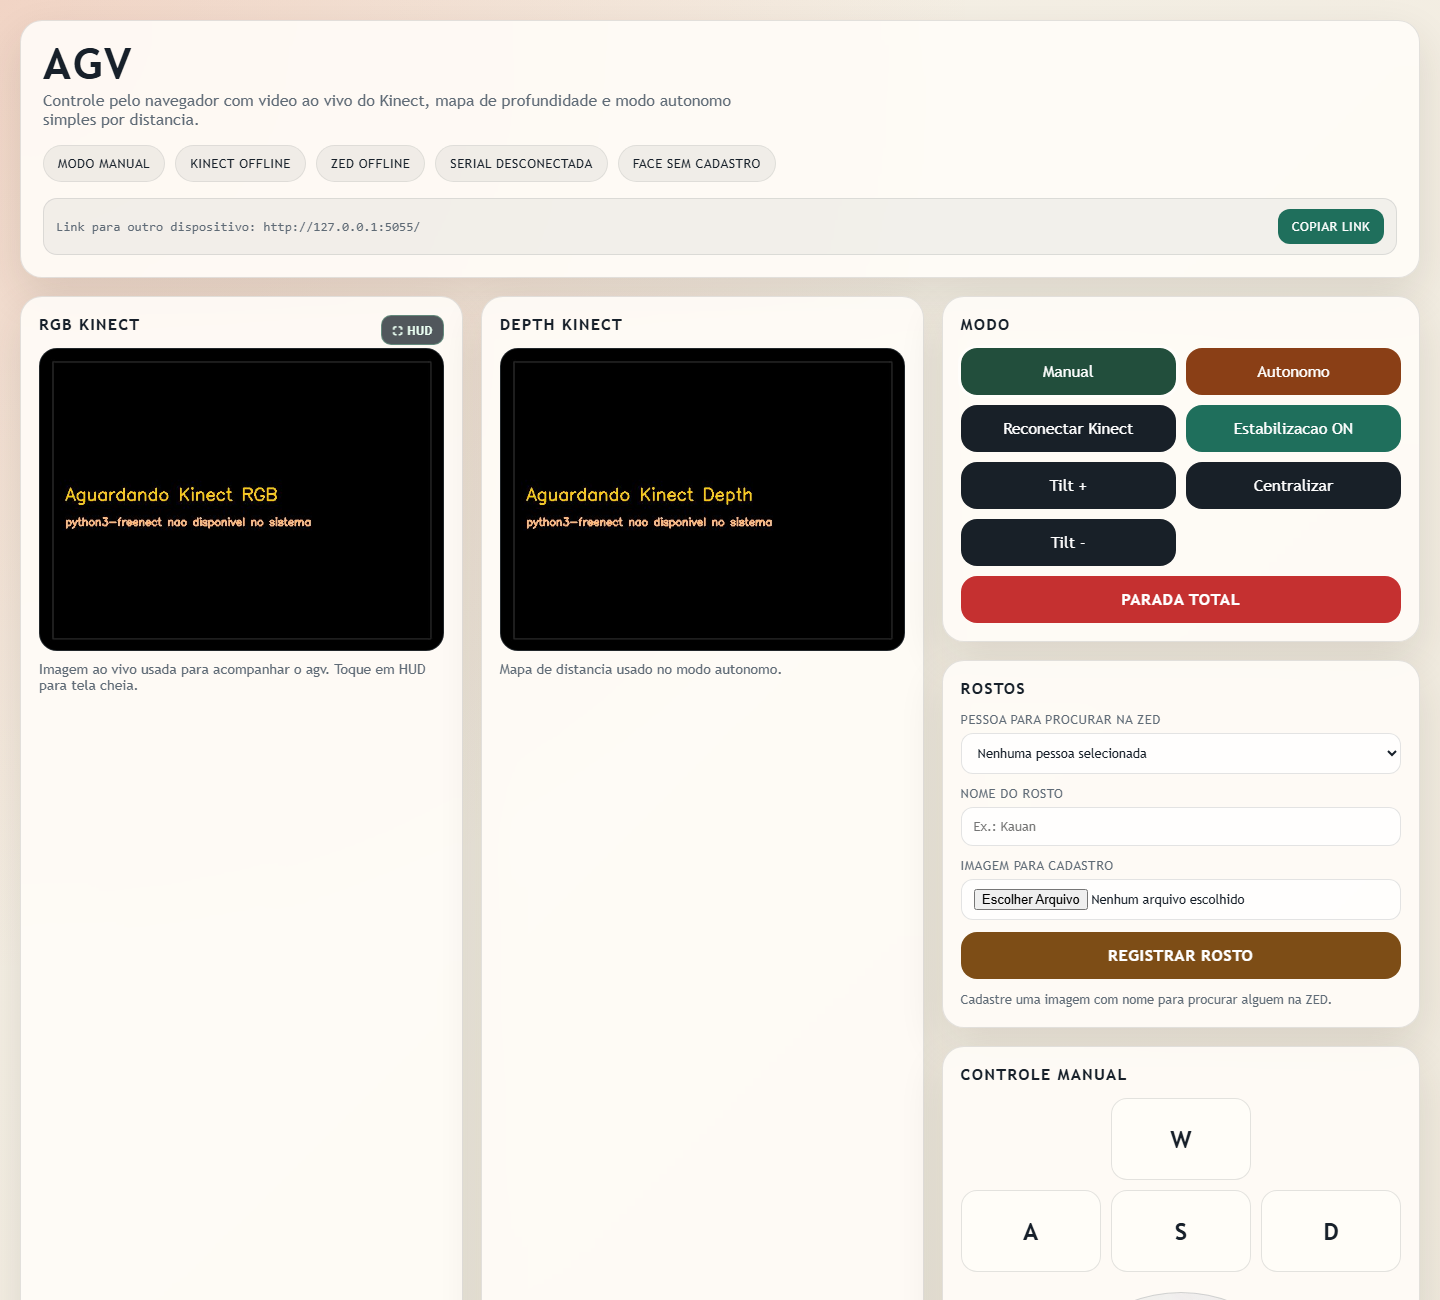
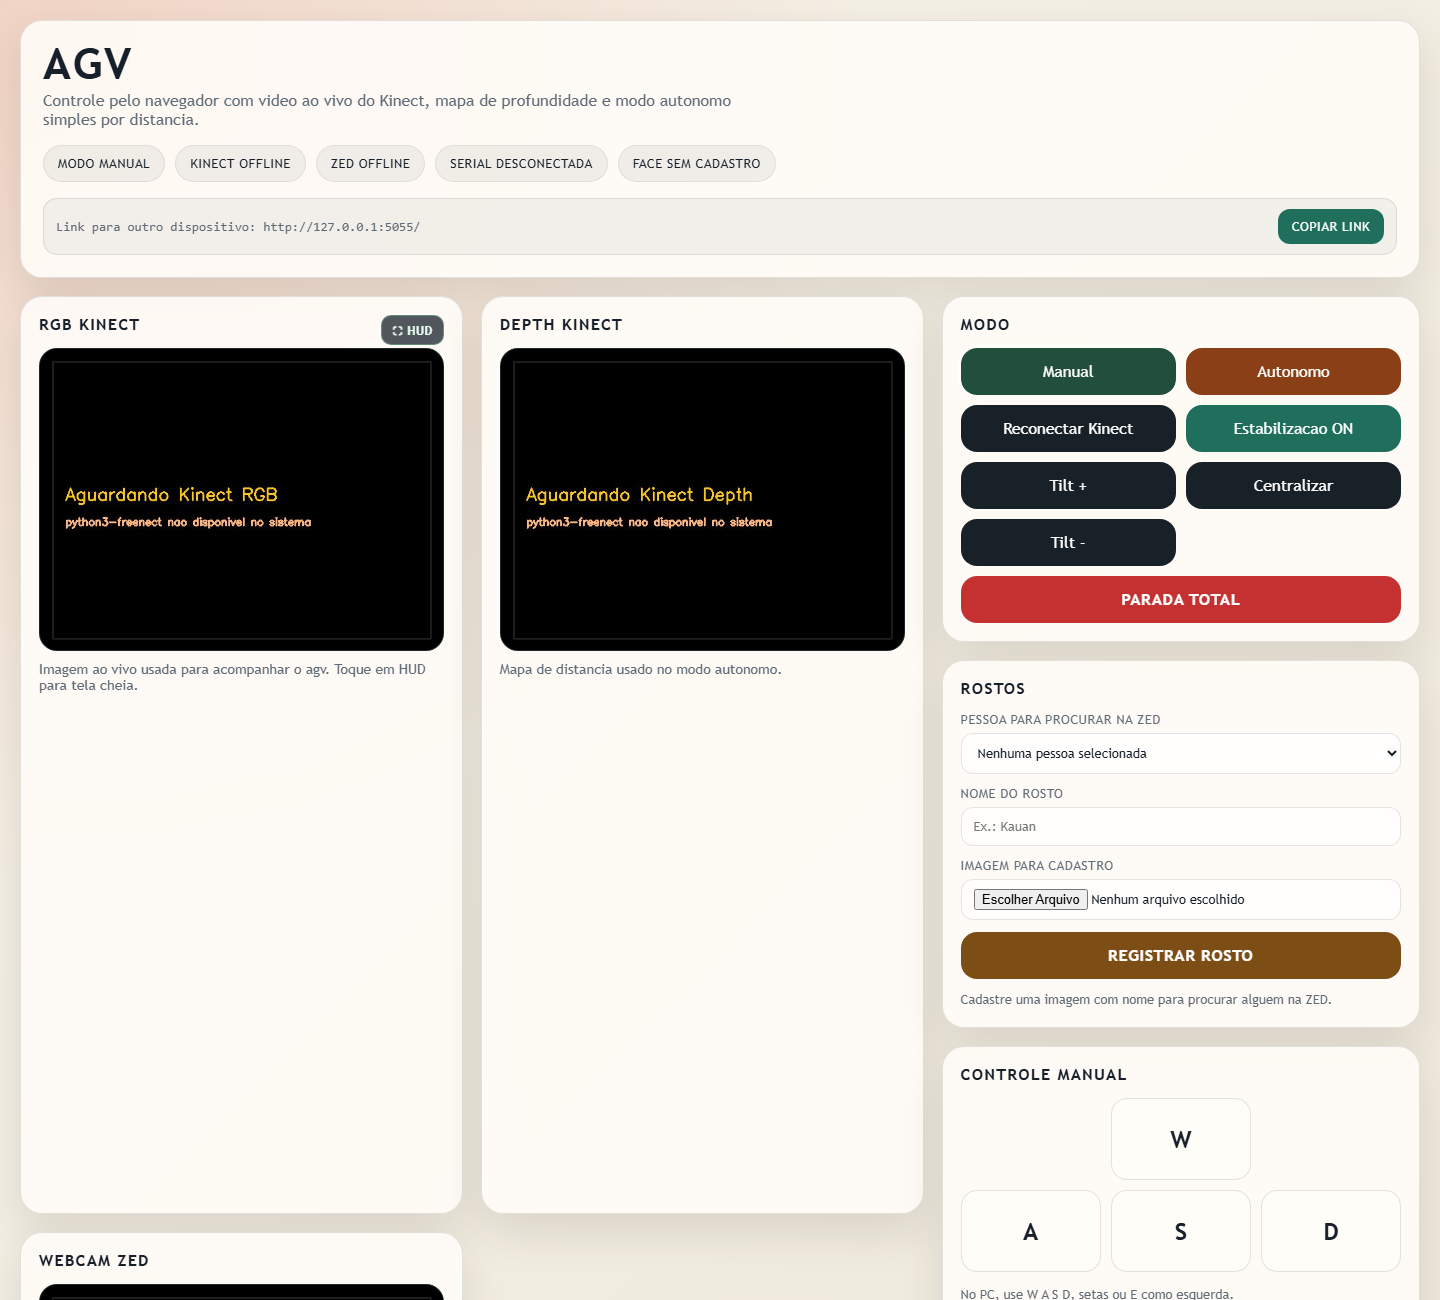
docs: atualiza README para o estado apos limpeza e correcoes
- testes: 19 automatizados, todos passando (inclui distancias e autonomo)
- testes do painel: tecla segurada alem do watchdog e queda do navegador
- limitacoes: remove os bugs corrigidos, registra ruido de pixel isolado
  e a falta de testes automatizados do JavaScript
- problemas 10 (distancia mostrava a parede) e 11 (tecla segurada)
- diagrama de profundidade e passo 11.3 descrevem o ponto mais proximo
- captura do painel refeita: PC mostra so o WASD
- CHANGELOG com corrigido/removido/testes

Changed region(s): [[0.0, 0.9231, 0.6562, 1.0], [0.6562, 0.9846, 0.8438, 1.0]]

diff --git a/README.md b/README.md
@@ -324,7 +324,7 @@ flowchart LR
 
 1. O Kinect entrega um quadro de profundidade 640×480 em 11 bits.
 2. O servidor considera só a faixa entre 35% e 65% da altura e recorta **três janelas**: esquerda (10–30% da largura), centro (40–60%) e direita (70–90%).
-3. Em cada janela descarta leituras inválidas, pega um valor representativo e o converte em metros pela fórmula da comunidade OpenKinect. Só aceita valores entre 0,15 m e 10 m.
+3. Em cada janela descarta leituras inválidas e pega o **ponto mais próximo**. No formato bruto de 11 bits, que é o menor valor, o servidor o converte em metros pela fórmula da comunidade OpenKinect. Só aceita valores entre 0,15 m e 10 m.
 4. A **distância frontal** é a da janela central. Se ela não existir, usa a menor das três.
 5. Esses valores vão para a telemetria, para o HUD e para as regras do modo autônomo.
 
@@ -355,6 +355,7 @@ AGV/
 │   └── iniciar_sistema.py         # servidor Flask + painel web/HUD + threads
 ├── tests/
 │   ├── test_arduino_serial.py     # testes da serial e do protocolo
+│   ├── test_depth_metrics.py      # testes das distâncias e do modo autônomo
 │   └── test_kinect_release.py     # testes de liberação USB e tilt do Kinect
 ├── docs/
 │   ├── diagrams/                  # arquitetura e janelas de profundidade (SVG)
@@ -714,7 +715,7 @@ Painel principal (http://IP_DO_AGV:5000)
 ![Painel principal](docs/images/painel-web.png)
 
 - **Finalidade:** central de teleoperação do AGV.
-- **Elementos:** chips de estado, link para outro dispositivo, vídeos RGB/profundidade/ZED, botões de modo e parada total, cadastro de rostos, WASD e joystick, telemetria e configurações.
+- **Elementos:** chips de estado, link para outro dispositivo, vídeos RGB/profundidade/ZED, botões de modo e parada total, cadastro de rostos, controle manual (WASD no PC, joystick no celular), telemetria e configurações.
 - **Ação do usuário:** escolher o modo, dirigir, acompanhar a telemetria e abrir o HUD.
 
 ### Visualizador HUD em tela cheia
@@ -742,10 +743,16 @@ Executados em 14/10/2026 no Windows 10 com Python 3.11.9, sem hardware.
 | Rota de reconexão do Kinect | `POST /api/kinect/reconnect` | 200 e liberação USB chamada | Conforme esperado | ✅ |
 | Rotas de tilt e estabilização | `POST /api/kinect/tilt`, `GET/POST /api/kinect/stabilization` | Ângulo e estado repassados | Conforme esperado | ✅ |
 | Tilt manual imediato | `_command_kinect_tilt(12)` e `(-12)` | `sync_set_tilt_degs(12)` e `(-12)` | Conforme esperado | ✅ |
-| Ordem de liberação dos módulos | `_release_kinect_usb_claims()` | Lista de comandos `sudo` | Teste espera `uvcvideo`, que hoje só é liberado com `AGV_KINECT_RELEASE_UVCVIDEO=1` | ❌ teste desatualizado |
-| Correção de tilt pelo acelerômetro / tilt manual com estabilização OFF | `_do_tilt_body` com acelerômetro simulado | `set_tilt_degs` chamado | Erro: os testes precisam do `python3-freenect` instalado (indisponível no Windows) | ⚠ só em Linux com freenect |
+| Ordem de liberação dos módulos | `_release_kinect_usb_claims()` com `AGV_KINECT_RELEASE_UVCVIDEO` desligado e ligado | Comandos `sudo` na ordem certa; `uvcvideo` só quando ligado | Conforme esperado | ✅ |
+| Correção de tilt pelo acelerômetro / tilt manual com estabilização OFF | `_do_tilt_body` com `freenect` simulado | `set_tilt_degs` chamado | Conforme esperado | ✅ |
+| Distância = ponto mais próximo | Janela com obstáculo (raw 500 ≈ 0,56 m) na frente de parede (raw 1000 ≈ 3,85 m) | 0,56 m | Conforme esperado | ✅ |
+| Fundo distante não apaga a janela | Obstáculo a 0,67 m com fundo além de 10 m | 0,67 m | Conforme esperado | ✅ |
+| Leituras inválidas | Janela só com raw 2047 | Sem distância (`None`) | Conforme esperado | ✅ |
+| Formato em milímetros | Janela com 800 mm entre 3000 mm | 0,80 m | Conforme esperado | ✅ |
+| Obstáculo só no centro | Quadro 640×480 com obstáculo na janela central | Centro 0,56 m; esquerda e direita 3,85 m | Conforme esperado | ✅ |
+| Autônomo desvia | Mesmo quadro no modo autônomo | `desvio-curto`, velocidade 18%, com giro | Conforme esperado | ✅ |
 
-**Resumo:** 12 testes, 9 aprovados, 1 desatualizado e 2 dependentes do `python3-freenect`.
+**Resumo:** 19 testes, todos aprovados. Os testes simulam a serial e o `freenect`, então rodam em qualquer sistema, sem o hardware.
 
 ### 22.2 Testes do painel sem hardware
 
@@ -755,6 +762,9 @@ Executados em 14/10/2026 no Windows 10 com Python 3.11.9, sem hardware.
 | Kinect ausente | Abrir o painel sem `python3-freenect` | Mensagem clara no vídeo e na telemetria | "Aguardando Kinect RGB — python3-freenect nao disponivel no sistema" | ✅ |
 | ZED ausente | Abrir o painel sem `/dev/video*` | Mensagem no card da ZED | "Aguardando webcam ZED — nao abriu webcam ZED" | ✅ |
 | Serial desativada | `AGV_ARDUINO_ENABLED=0` | Telemetria indica serial desligada | "serial desativada por ambiente" | ✅ |
+| Tecla segurada além do watchdog | Painel real em navegador *headless*: W pressionado sem soltar, `active_speed` lido em 0,5/1,5/2,5/3,5 s | Velocidade mantida enquanto W estiver pressionado | 100, 100, 100, 100 (antes da correção: 100, 100, 0, 0) | ✅ |
+| Navegador cai com W pressionado | Encerrar o navegador com W pressionado | Watchdog zera os motores | `active_speed` = 0 logo após o encerramento | ✅ |
+| Controle certo para cada dispositivo | Abrir o painel no PC e com *user agent* de celular | PC só WASD; celular só joystick | Conforme esperado | ✅ |
 | Abrir o HUD | Clicar em **⛶ HUD** | Vídeo em tela cheia com métricas e PiP | Ver captura na seção 21 | ✅ |
 
 ### 22.3 Testes com o AGV
@@ -787,8 +797,6 @@ Executados em 14/10/2026 no Windows 10 com Python 3.11.9, sem hardware.
 
 - **As sobreposições registradas de obstáculos ainda não existem.** O HUD atual mostra números fixos na tela; contorno, distância ancorada e zona de segurança são o próximo passo (RF20–RF22).
 - **Profundidade e RGB não estão alinhados entre si.** O Kinect v1 tem as duas câmeras deslocadas, e o código ainda não registra uma sobre a outra; isso é pré-requisito para desenhar sobre o obstáculo no vídeo.
-- **Possível erro na escolha do ponto da janela de profundidade.** No formato bruto de 11 bits, `_depth_segment_distance` usa o **maior** valor bruto da janela. Pela fórmula de conversão, valor maior = mais longe. Logo, com um obstáculo próximo na frente de uma parede, a janela tende a informar a distância da parede. Uma janela com algum ponto além de ~10 m é descartada inteira. No formato em milímetros o código usa o menor valor, o comportamento esperado. Precisa ser confirmado com o AGV e corrigido.
-- **Watchdog com tecla segurada (a confirmar no AGV):** o painel só envia um comando manual quando ele **muda**, e o servidor para o AGV se não chegar comando novo em 2 s. Pela leitura do código, segurar a mesma tecla (ou o joystick parado na mesma posição) por mais de 2 s deve fazer o AGV parar até o comando mudar.
 - **Faixa de medição limitada:** só a faixa central (35–65% da altura) é medida. Obstáculos baixos (paletes no chão) ou altos podem não aparecer nas distâncias.
 - **Precisão do Kinect v1 cai com a distância** (Wasenmüller e Stricker, 2016), e ele não mede bem a poucos centímetros nem sob luz solar forte.
 - **Vídeo com baixa taxa de quadros** (6 fps RGB, 4 fps profundidade por padrão) para caber em redes fracas, o que aumenta a latência percebida.
@@ -799,7 +807,8 @@ Executados em 14/10/2026 no Windows 10 com Python 3.11.9, sem hardware.
 - **A imagem Docker não inclui FFmpeg:** dentro do container a ZED só abre pelo OpenCV.
 - **1ª build lenta:** o `face-recognition` compila o dlib do código-fonte.
 - **RTT não é registrado:** a latência só aparece como aviso na tela; a pesquisa precisa dela em log (RF24).
-- **Testes automatizados:** 1 teste desatualizado e 2 que só rodam com `python3-freenect` (seção 22.1).
+- **Distância pelo pixel mais próximo:** cada janela usa o ponto mais próximo; um pixel isolado com ruído pode gerar um alerta falso. Ainda não há filtro (ex.: percentil ou mediana).
+- **Os testes não cobrem o JavaScript do painel:** o comportamento do teclado e do HUD foi verificado em navegador *headless*, não por testes automatizados.
 
 ---
 
@@ -845,7 +854,7 @@ Executados em 14/10/2026 no Windows 10 com Python 3.11.9, sem hardware.
 
 ## 28. Controle de Versão
 
-- **Branches e Pull Requests:** as mudanças entram por branches de funcionalidade (`feature/hud-fullscreen-viewer`, `chore/organizar-repositorio`, `docs/readme-modelo-upx`) mescladas na `main` por PR.
+- **Branches e Pull Requests:** as mudanças entram por branches de funcionalidade (`feature/hud-fullscreen-viewer`, `chore/organizar-repositorio`, `chore/limpeza-codigo-morto`, `fix/distancia-profundidade`, `fix/controle-manual-watchdog`, `docs/readme-modelo-upx`) mescladas na `main` por PR.
 - **Commits:** seguem o padrão *Conventional Commits*:
 
 ```text
@@ -914,17 +923,29 @@ docs: reformula README no padrao universal
 **Causa:** falha de hardware da placa.
 **Solução:** substituição por um notebook Linux (x86_64) embarcado no AGV, ligado ao Kinect, à ZED e ao Arduino por USB. Todo o software atual foi desenvolvido, testado e validado no notebook; por isso o executável do PyInstaller usa as bibliotecas `x86_64-linux-gnu`.
 
+### Problema 10 — Distância mostrava a parede, não o obstáculo
+
+**Problema:** com um obstáculo a 0,56 m na frente de uma parede a 3,85 m, o HUD mostrava 3,85 m e o modo autônomo seguia como "livre" a 48% de velocidade.
+**Causa:** no formato bruto de 11 bits o valor cresce com a distância, mas `_depth_segment_distance` usava `np.max`, ou seja, o ponto **mais distante** da janela.
+**Solução:** troca para `np.min`, igual ao caminho em milímetros, e 6 testes em `tests/test_depth_metrics.py` (4 deles falhavam antes da correção).
+
+### Problema 11 — AGV parava com a tecla segurada
+
+**Problema:** segurando W, o AGV andava e parava sozinho depois de 2 s.
+**Causa:** o painel só enviava comando quando ele mudava, e o watchdog do servidor para o AGV sem comando novo em 2 s.
+**Solução:** o painel reenvia o comando atual a cada 500 ms enquanto há tecla ou joystick acionado. Se a aba fecha ou a rede cai, o reenvio para e o watchdog continua protegendo. Na mesma correção, o PC deixou de mostrar o joystick e o celular deixou de mostrar o WASD (o `display: grid` do CSS vencia o atributo `hidden`).
+
 ---
 
 ## 30. Melhorias Futuras
 
 - Alinhar profundidade e RGB e desenhar sobre o vídeo o **contorno dos obstáculos**, a **distância ancorada** e a **zona de segurança no piso**.
-- Corrigir a escolha do ponto mais próximo nas janelas de profundidade (seção 24) e ampliar a área medida.
+- Filtrar ruído nas janelas de profundidade (percentil/mediana) e ampliar a área medida.
 - Registrar em arquivo **tempo, colisões, intervenções, RTT e FPS** de cada sessão.
 - Chave para alternar **HUD** × **HUD + RA** durante o experimento.
 - Autenticação simples no painel.
 - Incluir FFmpeg na imagem Docker.
-- Atualizar os testes desatualizados e criar testes para as métricas de profundidade.
+- Dividir `pc_agv/iniciar_sistema.py` em módulos (configuração, hardware, visão, controle e web) e tirar o HTML/CSS/JS do Python.
 
 ---
 

diff --git a/CHANGELOG.md b/CHANGELOG.md
@@ -4,6 +4,21 @@ Todas as mudanças relevantes do projeto. Os marcos `v1.0.x` foram registrados n
 
 ## [Não lançado]
 
+### Corrigido
+
+- Distâncias da profundidade (11 bits) usavam o ponto mais distante de cada janela; agora usam o mais próximo. O HUD e o modo autônomo passam a enxergar o obstáculo, não a parede atrás dele.
+- No modo manual, o AGV parava após 2 s com a tecla segurada; o painel agora reenvia o comando a cada 500 ms (o watchdog continua parando o AGV se o navegador cair).
+- PC mostrava o joystick e celular mostrava o WASD (`display: grid` vencia o atributo `hidden`).
+
+### Removido
+
+- Código morto do reconhecimento facial antigo (Haar cascade), rota comentada, `rgb_raw` e `AGV_CAPTURE_LOOP_SECONDS`.
+- `.vscode/settings.json` deixa de ser versionado.
+
+### Testes
+
+- Testes do Kinect atualizados e independentes do `python3-freenect`; novos testes de distância e do modo autônomo (19 testes, todos passando).
+
 ### Documentação
 
 - README reescrito no modelo da disciplina UPX — Realidade Aumentada (`dr-ohata/upx-modelo`).
